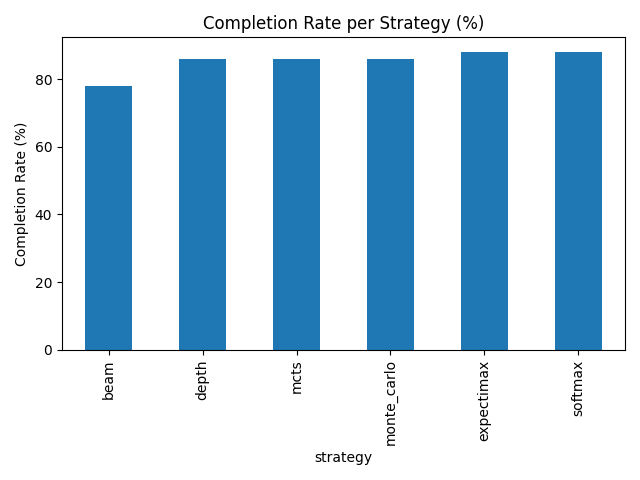
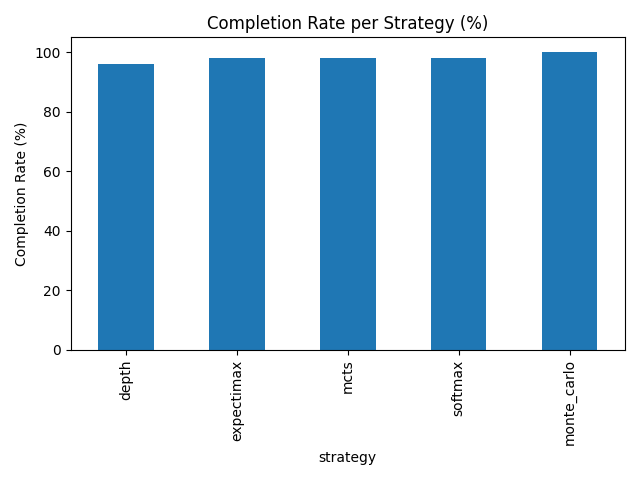
Revamped potential optimal models and ran test code on 10 levels again.

diff --git a/candy_vision_train.py b/candy_vision_train.py
@@ -836,7 +836,7 @@ def run_move_selection_experiment(skip_existing_results=True):
         }
 
         screenshot_names = ["test1", "test5", "test6", "test7", "test11", "test12","test14","test16","test24","test26"]
-        num_runs = 5
+        num_runs = 10
         results = []
 
         yolo_model_path = "runs/detect/train7/weights/best.pt"
@@ -965,7 +965,7 @@ def run_move_selection_experiment(skip_existing_results=True):
         plt.close()
         print(f"📈 Saved plot: {completion_plot_path}")
 if __name__ == "__main__":
-    
+    """
     yolo_model_path = "runs/detect/train7/weights/best.pt"
     data_dir = "candy_dataset"
     screenshot_path = "data/test/images/test24.png"
@@ -1047,7 +1047,7 @@ if __name__ == "__main__":
     jelly_grid = infer_hidden_jelly_layers(candy_grid, jelly_grid, objective_targets)
     for i, row in enumerate(jelly_grid):
         print(f"Row {i + 1}: {[jelly_level for jelly_level in row]}")
-    """
+
     best_depth_move, depth_score, depth_tracker = depth_based_simulation(
         candy_grid, jelly_grid, objective_targets, depth=2
     )
@@ -1065,7 +1065,6 @@ if __name__ == "__main__":
     # Now perform the move on the copied grid and print it out to show simulated outcome
     print(f"[Hybrid MCTS]    Move: {best_mcts_move}, Estimated Score: {mcts_score:.2f}, Tracker: {mcts_tracker}")
     print(f"[Monte Carlo]    Move: {monte_carlo_move}, Estimated Score: {monte_carlo_score:.2f}, Tracker: {monte_carlo_tracker}")
-    """
     # 3. Run Depth-based Simulation
     steps_taken_depth, depth_tracker, completion, candy_grid1, jelly_grid1, score = simulate_to_completion(candy_grid, jelly_grid, objective_targets, depth_based_simulation, depth = 2, max_steps = moves_left)
     print(f"\nDepth-based Simulation Steps: {steps_taken_depth}")
@@ -1113,7 +1112,8 @@ if __name__ == "__main__":
     for i, row in enumerate(candy_grid6):
         print(f"Row {i + 1}: {[label for _, label in row]}")
     for i, row in enumerate(jelly_grid6):
-        print(f"Row {i + 1}: {[jelly_level for jelly_level in row]}")
+        print(f"Row {i + 1}: {[jelly_level for jelly_level in row]}")"""
+    run_move_selection_experiment(skip_existing_results=True)
 
     
 
